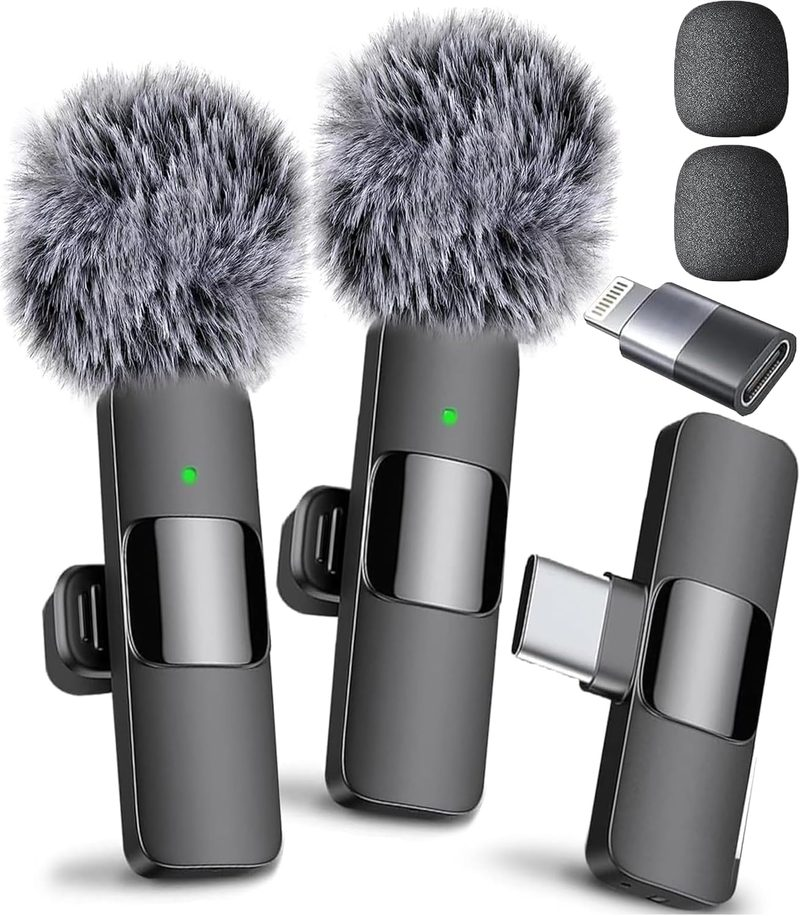
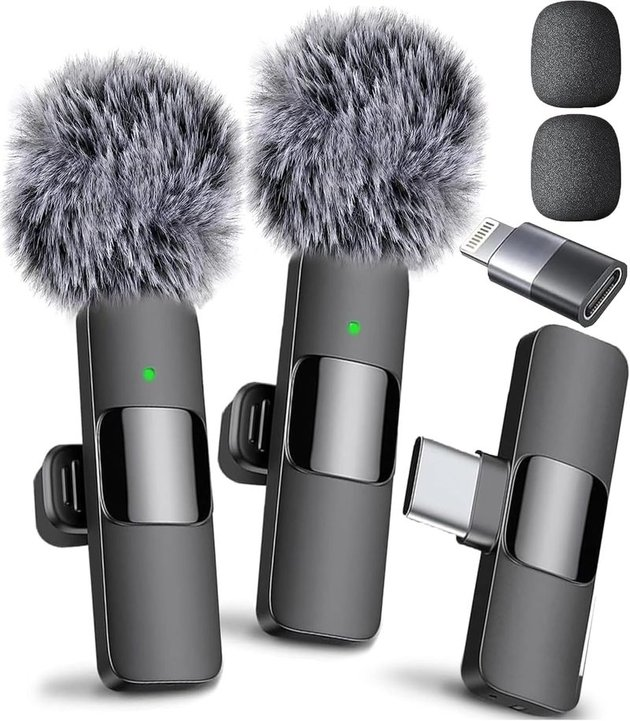
Right-size the 13 product photos that only ever render in a capped slot
Measured every image's real rendered CSS width across all pages and 7
breakpoints (375-1920px) rather than assume the earlier, narrower
single-page audit still held. It didn't: most files are reused somewhere
at or near their full 800px native width (a hero, a featured card, an
in-article deep-dive image), so a strict 2x-retina target left almost
nothing to shrink. Two things the measurement surfaced along the way:

- Several article heroes already carry an inline style="max-width:420px"
  from earlier work in this repo (the "SanDisk Extreme... dominating the
  mobile viewport" fix), which a page-by-page spot check would miss but a
  full sweep catches.
- rode-phone-cage-review.html's hero actually renders WIDER than its
  800px native file (910px) in the 1024-1119px viewport band, the gap
  before the sticky TOC appears at the documented >=1120px breakpoint.
  That's a case of too little resolution, not too much, and isn't
  fixable by resizing -- left alone, noted for anyone with a higher-res
  source photo.

At a 2x target, one file had ~4% headroom -- not worth doing. At 1.5x, a
common trade for photographic JPEG/WebP content where a phone's 3x panel
already isn't served full-resolution photos anywhere on the web, 13 files
whose only usage anywhere is inside that 420px-capped slot had real
headroom: resized 800px -> 630px (one, potensic-atom.jpg, only ever
reaches 383px CSS width -> 575px). Every OG/Twitter-referenced image and
[…]

Changed region(s): [[0.9349, 0.3967, 0.9651, 0.4272]]

diff --git a/best-wireless-lavalier-mics-under-100.html b/best-wireless-lavalier-mics-under-100.html
@@ -290,7 +290,7 @@
             <p class="lead text-lg text-slate-600 mb-4"><strong>Buy the BOYA Mini 2.</strong> At roughly $40&ndash;50 it does the only thing that actually matters here — clean, noise-cancelled 24-bit dialogue — for about a third of what the Rode Wireless Micro costs. If you're a solo creator talking to your own phone, spending more than this buys you features you will not use. <strong>Buy the Hollyland Lark M2 instead if</strong> you record two people at once: 40 hours of battery and 300m of range is the version of this purchase that survives real interview work.</p>
             <p class="text-xs text-slate-400 mb-8"><strong>How we pick:</strong> published manufacturer specifications and aggregated user reviews &mdash; not hands-on testing.</p>
 
-            <picture><source type="image/webp" srcset="images/boya-mini-2.webp"><img loading="lazy" src="images/boya-mini-2.jpg" width="800" height="443" alt="Wireless lavalier microphone for smartphone content creation" class="tpi-plate w-full h-auto rounded-xl mb-8 shadow-md object-cover" style="max-width:420px;"></picture>
+            <picture><source type="image/webp" srcset="images/boya-mini-2.webp"><img loading="lazy" src="images/boya-mini-2.jpg" width="630" height="705" alt="Wireless lavalier microphone for smartphone content creation" class="tpi-plate w-full h-auto rounded-xl mb-8 shadow-md object-cover" style="max-width:420px;"></picture>
 
             <section class="tpi-verdict not-prose" aria-labelledby="verdict-heading">
                 <span class="tpi-badge tpi-badge--pick">Best overall &mdash; budget wireless lav under $100</span>
@@ -377,7 +377,7 @@
 
             <h2>1. BOYA Mini 2 — Best Value</h2>
             <p class="dab text-slate-800 bg-slate-50 border-l-4 border-accent px-4 py-3 rounded-r-lg my-4"><strong>Quick take:</strong> <strong>Our pick, and the right buy for most solo creators.</strong> 24-bit/48kHz with AI noise cancellation is genuinely all the audio quality a phone video needs, and at 5g the transmitter is light enough that it doesn't drag a t-shirt collar out of shape on camera. <strong>Skip it if</strong> you work beyond ~100m from your phone, or you need to mic two people.</p>
-            <picture><source type="image/webp" srcset="images/boya-mini-2.webp"><img loading="lazy" src="images/boya-mini-2.jpg" width="800" height="895" alt="BOYA Mini 2 wireless lavalier microphone with charging case" class="tpi-plate w-full h-auto rounded-xl my-6 shadow-sm border border-slate-200" style="max-width:420px;"></picture>
+            <picture><source type="image/webp" srcset="images/boya-mini-2.webp"><img loading="lazy" src="images/boya-mini-2.jpg" width="630" height="705" alt="BOYA Mini 2 wireless lavalier microphone with charging case" class="tpi-plate w-full h-auto rounded-xl my-6 shadow-sm border border-slate-200" style="max-width:420px;"></picture>
             <p>The BOYA Mini 2 is the biggest surprise in the budget wireless mic space. At roughly a third of the price of the Rode Wireless Micro, it delivers AI noise cancellation, 24-bit/48kHz audio, and a total battery life of around 30 hours via its charging case. The 5g transmitter weight is the lightest on this list — light enough that it won't pull down thin shirt collars, which is a real-world advantage reviewers frequently cite. The trade-off is range (100m vs 200-400m for pricier options), but for single-person vlogging where you're always near your phone, that's rarely a limitation.</p>
             <div class="grid md:grid-cols-2 gap-6 my-8">
                 <div class="bg-pro-bg border border-pro-border p-5 rounded-xl">
@@ -400,7 +400,7 @@
 
             <h2>2. Hollyland Lark M2 — Best for Dual-Person Interviews</h2>
             <p class="dab text-slate-800 bg-slate-50 border-l-4 border-accent px-4 py-3 rounded-r-lg my-4"><strong>Quick take:</strong> <strong>Buy this the moment you're recording two people.</strong> Two transmitters plus receivers for USB-C, Lightning and 3.5mm mean you can mic an interview and plug into whatever camera turns up, and 300m of range covers a subject who wanders off-mark. 40 hours of battery takes charging off your pre-shoot checklist entirely. <strong>Buy the BOYA instead if</strong> you only ever mic yourself &mdash; this is more system than you'd use.</p>
-            <picture><source type="image/webp" srcset="images/hollyland-lark-m2.webp"><img loading="lazy" src="images/hollyland-lark-m2.jpg" width="800" height="670" alt="Hollyland Lark M2 wireless lavalier microphone system" class="tpi-plate w-full h-auto rounded-xl my-6 shadow-sm border border-slate-200" style="max-width:420px;"></picture>
+            <picture><source type="image/webp" srcset="images/hollyland-lark-m2.webp"><img loading="lazy" src="images/hollyland-lark-m2.jpg" width="630" height="528" alt="Hollyland Lark M2 wireless lavalier microphone system" class="tpi-plate w-full h-auto rounded-xl my-6 shadow-sm border border-slate-200" style="max-width:420px;"></picture>
             <p>The Lark M2 ships with two transmitters and a triple-receiver setup (USB-C, Lightning, and 3.5mm), making it the most versatile option here for creators who switch between phone and camera. At 9g per transmitter and 40 hours of total battery via the charging case, it handles long interview days without recharging. The 300m range and 48kHz/24-bit audio put it in near-professional territory, and the one-click noise cancellation works well in moderately noisy environments according to user reviews.</p>
             <div class="grid md:grid-cols-2 gap-6 my-8">
                 <div class="bg-pro-bg border border-pro-border p-5 rounded-xl">
@@ -423,7 +423,7 @@
 
             <h2>3. Mini Mic Pro — Best Range for the Price</h2>
             <p class="dab text-slate-800 bg-slate-50 border-l-4 border-accent px-4 py-3 rounded-r-lg my-4"><strong>Quick take:</strong> <strong>Buy this only if distance is genuinely your problem.</strong> 260m is the longest range here, so for miking a subject across a field it's the pick. Everything else is a compromise: the ~6h transmitter battery is the shortest in this roundup, so you'll be planning charges around it. <strong>Skip it for</strong> ordinary talking-head work &mdash; you'd be paying for range you never leave.</p>
-            <picture><source type="image/webp" srcset="images/mini-mic-pro.webp"><img loading="lazy" src="images/mini-mic-pro.jpg" width="800" height="916" alt="Mini Mic Pro wireless lavalier microphone with Lightning and USB-C receiver" class="tpi-plate w-full h-auto rounded-xl my-6 shadow-sm border border-slate-200" style="max-width:420px;"></picture>
+            <picture><source type="image/webp" srcset="images/mini-mic-pro.webp"><img loading="lazy" src="images/mini-mic-pro.jpg" width="630" height="721" alt="Mini Mic Pro wireless lavalier microphone with Lightning and USB-C receiver" class="tpi-plate w-full h-auto rounded-xl my-6 shadow-sm border border-slate-200" style="max-width:420px;"></picture>
             <p>The Mini Mic Pro stands out for a wireless range (up to 260m) that would normally command a much higher price, using 2.4GHz digital transmission with a near-zero latency codec. It ships with a combined Lightning/USB-C receiver plus swappable windproof covers and sponge heads, so one unit covers both iPhone and Android without buying a separate kit. Battery life sits around 6 hours per charge — shorter than the Hollyland options — but the 2-hour recharge time is fast, and the receiver can power-pass to your phone while recording.</p>
             <div class="grid md:grid-cols-2 gap-6 my-8">
                 <div class="bg-pro-bg border border-pro-border p-5 rounded-xl">
@@ -446,7 +446,7 @@
 
             <h2>4. MENERESAS 3-in-1 — Best for Multi-Device Switching</h2>
             <p class="dab text-slate-800 bg-slate-50 border-l-4 border-accent px-4 py-3 rounded-r-lg my-4"><strong>Quick take:</strong> <strong>Buy this if you switch devices constantly.</strong> One universal receiver covers iPhone, Android and camera with no adapter swapping &mdash; the fiddly part of every other system here. <strong>Skip it if</strong> you shoot outdoors or at any real distance: 80ft (~24m) is by far the shortest range in this roundup, and it's the spec that will bite you first.</p>
-            <picture><source type="image/webp" srcset="images/meneresas-3-in-1.webp"><img loading="lazy" src="images/meneresas-3-in-1.jpg" width="800" height="809" alt="MENERESAS 3-in-1 wireless lavalier microphone with universal receiver" class="tpi-plate w-full h-auto rounded-xl my-6 shadow-sm border border-slate-200" style="max-width:420px;"></picture>
+            <picture><source type="image/webp" srcset="images/meneresas-3-in-1.webp"><img loading="lazy" src="images/meneresas-3-in-1.jpg" width="630" height="637" alt="MENERESAS 3-in-1 wireless lavalier microphone with universal receiver" class="tpi-plate w-full h-auto rounded-xl my-6 shadow-sm border border-slate-200" style="max-width:420px;"></picture>
             <p>The MENERESAS 3-in-1 is built around a single universal receiver that works across iPhone, Android, and camera without swapping adapters — useful if you regularly move between devices mid-project. It's rated for an 80ft (about 24m) range and a 15-hour receiver battery with a 5-hour transmitter runtime, positioning it as a shorter-range but longer-lasting-on-standby option than the Mini Mic Pro. Dual transmitters support two-person recording out of the box.</p>
             <div class="grid md:grid-cols-2 gap-6 my-8">
                 <div class="bg-pro-bg border border-pro-border p-5 rounded-xl">
@@ -469,7 +469,7 @@
 
             <h2>5. Hollyland Lark A1 — Best Battery Life</h2>
             <p class="dab text-slate-800 bg-slate-50 border-l-4 border-accent px-4 py-3 rounded-r-lg my-4"><strong>Quick take:</strong> <strong>Buy this if your audio environment is unpredictable.</strong> A 120dB SPL rating means a sudden shout, a round of applause, or a passing truck won't distort the take the way it would on cheaper mics, and three-level noise cancellation handles the steadier noise underneath. <strong>Skip it if</strong> you shoot in controlled quiet &mdash; that's headroom a calm room never asks for.</p>
-            <picture><source type="image/webp" srcset="images/hollyland-lark-a1.webp"><img loading="lazy" src="images/hollyland-lark-a1.jpg" width="800" height="790" alt="Hollyland Lark A1 wireless lavalier microphone combo with charging case" class="tpi-plate w-full h-auto rounded-xl my-6 shadow-sm border border-slate-200" style="max-width:420px;"></picture>
+            <picture><source type="image/webp" srcset="images/hollyland-lark-a1.webp"><img loading="lazy" src="images/hollyland-lark-a1.jpg" width="630" height="622" alt="Hollyland Lark A1 wireless lavalier microphone combo with charging case" class="tpi-plate w-full h-auto rounded-xl my-6 shadow-sm border border-slate-200" style="max-width:420px;"></picture>
             <p>The Lark A1 pairs a 200m range with 48kHz/24-bit studio-grade audio and 3-level intelligent noise cancellation, plus EQ and reverb presets adjustable through Hollyland's app. It handles sudden loud noise well thanks to a 120dB SPL rating, avoiding the distortion cheaper mics can suffer at high volume. The magnetic mounting adds a quick-attach option alongside the standard clip. Reviewers note it's especially good for events and conference recording where consistent range and noise handling matter more than raw battery runtime.</p>
             <div class="grid md:grid-cols-2 gap-6 my-8">
                 <div class="bg-pro-bg border border-pro-border p-5 rounded-xl">

diff --git a/phone-lenses-nd-filters-mobile-video.html b/phone-lenses-nd-filters-mobile-video.html
@@ -394,7 +394,7 @@
 
             <h2>2. SmallRig 67mm Magnetic VND ND64-ND400 — Best for Bright Daylight</h2>
             <p class="dab text-slate-800 bg-slate-50 border-l-4 border-accent px-4 py-3 rounded-r-lg my-4"><strong>Quick take:</strong> <strong>Buy this only if the ND2&ndash;ND32 isn't dark enough.</strong> Roughly four stops darker, which you need in direct midday sun, on snow, or on bright water &mdash; and essentially nowhere else. <strong>Do not make this your first ND:</strong> on an ordinary overcast afternoon it's too dark to shoot through, and you'll end up buying the ND2&ndash;ND32 as well.</p>
-            <picture><source type="image/webp" srcset="images/smallrig-vnd-nd64-400.webp"><img loading="lazy" src="images/smallrig-vnd-nd64-400.jpg" width="800" height="868" alt="SmallRig 67mm Magnetic Variable ND Filter ND64-ND400 for bright daylight" class="tpi-plate w-full h-auto rounded-xl my-6 shadow-sm border border-slate-200" style="max-width:420px;"></picture>
+            <picture><source type="image/webp" srcset="images/smallrig-vnd-nd64-400.webp"><img loading="lazy" src="images/smallrig-vnd-nd64-400.jpg" width="630" height="684" alt="SmallRig 67mm Magnetic Variable ND Filter ND64-ND400 for bright daylight" class="tpi-plate w-full h-auto rounded-xl my-6 shadow-sm border border-slate-200" style="max-width:420px;"></picture>
             <p>When the ND2-32 filter isn't dense enough — direct midday sun, wide apertures, or bright snow and water scenes — this 6-9 stop version steps in. It shares the same magnetic-plus-threaded mounting and multi-layered optical glass as the lighter filter, just shifted to a much darker range. This is a second filter to add once you outgrow the standard one, not a starting point for most creators.</p>
             <div class="grid md:grid-cols-2 gap-6 my-8">
                 <div class="bg-pro-bg border border-pro-border p-5 rounded-xl">
@@ -417,7 +417,7 @@
 
             <h2>3. NEEWER Variable ND Filter & Magnetic Clip Set — Best Budget Entry</h2>
             <p class="dab text-slate-800 bg-slate-50 border-l-4 border-accent px-4 py-3 rounded-r-lg my-4"><strong>Quick take:</strong> <strong>Buy this if you don't own a SmallRig cage.</strong> The bundled magnetic clip mounts to a bare phone, so you get the same practical ND2&ndash;ND32 stop range without buying into a cage ecosystem first &mdash; and at a lower price. <strong>Buy the SmallRig instead if</strong> you already have the cage; its integrated magnetic mount is quicker and cleaner in use.</p>
-            <picture><source type="image/webp" srcset="images/neewer-variable-nd.webp"><img loading="lazy" src="images/neewer-variable-nd.jpg" width="800" height="825" alt="NEEWER Variable ND Filter and Magnetic Phone Clip Set" class="tpi-plate w-full h-auto rounded-xl my-6 shadow-sm border border-slate-200" style="max-width:420px;"></picture>
+            <picture><source type="image/webp" srcset="images/neewer-variable-nd.webp"><img loading="lazy" src="images/neewer-variable-nd.jpg" width="630" height="650" alt="NEEWER Variable ND Filter and Magnetic Phone Clip Set" class="tpi-plate w-full h-auto rounded-xl my-6 shadow-sm border border-slate-200" style="max-width:420px;"></picture>
             <p>Neewer's take skips the cage-dependent magnetic system in favor of a standalone magnetic phone clip, so it works without needing to already own a compatible cage. The ND2-32 range covers the same practical stops as the SmallRig equivalent, making this the more accessible starting point if you don't already have SmallRig rig components.</p>
             <div class="grid md:grid-cols-2 gap-6 my-8">
                 <div class="bg-pro-bg border border-pro-border p-5 rounded-xl">
@@ -440,7 +440,7 @@
 
             <h2>4. SmallRig 1.33x Anamorphic Lens — Best Entry-Level Cinematic Lens</h2>
             <p class="dab text-slate-800 bg-slate-50 border-l-4 border-accent px-4 py-3 rounded-r-lg my-4"><strong>Quick take:</strong> <strong>Buy this only after an ND is already in your bag.</strong> It produces a real 2.4:1 frame and genuine horizontal blue flares, which no software filter fakes convincingly &mdash; but it also demands a compatible T-mount cage and a de-squeeze app, and there's a real learning curve before footage reads as intentional rather than warped. <strong>Start here rather than the 1.55x</strong> if anamorphic is new to you.</p>
-            <picture><source type="image/webp" srcset="images/smallrig-anamorphic-133x.webp"><img loading="lazy" src="images/smallrig-anamorphic-133x.jpg" width="800" height="656" alt="SmallRig 1.33x Anamorphic Lens for mobile phone" class="tpi-plate w-full h-auto rounded-xl my-6 shadow-sm border border-slate-200" style="max-width:420px;"></picture>
+            <picture><source type="image/webp" srcset="images/smallrig-anamorphic-133x.webp"><img loading="lazy" src="images/smallrig-anamorphic-133x.jpg" width="630" height="517" alt="SmallRig 1.33x Anamorphic Lens for mobile phone" class="tpi-plate w-full h-auto rounded-xl my-6 shadow-sm border border-slate-200" style="max-width:420px;"></picture>
             <p>This lens physically compresses the image horizontally during capture, producing a genuine 2.4:1 widescreen frame with 33% more horizontal field of view than standard 16:9 — the same visual language as theatrical film. It also produces the horizontal blue lens flare associated with anamorphic glass. Setup requires a compatible T-mount phone cage and a dedicated shooting app (Blackmagic Cam and FiLMiC Pro are commonly recommended), since standard camera apps won't de-squeeze the footage correctly.</p>
             <div class="grid md:grid-cols-2 gap-6 my-8">
                 <div class="bg-pro-bg border border-pro-border p-5 rounded-xl">
@@ -463,7 +463,7 @@
 
             <h2>5. SmallRig 1.55x Anamorphic Lens — Best Stronger Widescreen Effect</h2>
             <p class="dab text-slate-800 bg-slate-50 border-l-4 border-accent px-4 py-3 rounded-r-lg my-4"><strong>Quick take:</strong> <strong>Buy this only if you already know you want anamorphic.</strong> 2.76:1 and 55% extra horizontal width is a stronger, far more obviously stylized look than the 1.33x &mdash; excellent when it's a deliberate choice, overwhelming when it isn't. <strong>Buy the 1.33x instead if</strong> this would be your first anamorphic lens.</p>
-            <picture><source type="image/webp" srcset="images/smallrig-anamorphic-155x.webp"><img loading="lazy" src="images/smallrig-anamorphic-155x.jpg" width="800" height="689" alt="SmallRig 1.55x Anamorphic Lens for mobile phone" class="tpi-plate w-full h-auto rounded-xl my-6 shadow-sm border border-slate-200" style="max-width:420px;"></picture>
+            <picture><source type="image/webp" srcset="images/smallrig-anamorphic-155x.webp"><img loading="lazy" src="images/smallrig-anamorphic-155x.jpg" width="630" height="543" alt="SmallRig 1.55x Anamorphic Lens for mobile phone" class="tpi-plate w-full h-auto rounded-xl my-6 shadow-sm border border-slate-200" style="max-width:420px;"></picture>
             <p>Stepping up to the 1.55x squeeze produces a wider 2.76:1 aspect ratio — 55% more horizontal frame width than standard 16:9, versus 33% on the 1.33x lens. The trade-off is a more pronounced and less subtle widescreen look, which some creators want for a distinctly "epic" feel and others find too aggressive for everyday content. Mounting and app requirements are the same as the 1.33x model.</p>
             <div class="grid md:grid-cols-2 gap-6 my-8">
                 <div class="bg-pro-bg border border-pro-border p-5 rounded-xl">

diff --git a/best-portable-ssds-prores.html b/best-portable-ssds-prores.html
@@ -309,7 +309,7 @@
 
             <h3>2. Crucial X9 Pro — best for gimbal setups</h3>
             <p class="dab text-slate-800 bg-slate-50 border-l-4 border-accent px-4 py-3 rounded-r-lg my-4"><strong>Quick take:</strong> <strong>Buy this one if it's going on a gimbal.</strong> At ~38g and 2.5 x 2.0 inches, it's the only drive here that clamps to a balance-sensitive rig without upsetting your gimbal's calibration, and write speed matches the larger drives. <strong>Skip it if</strong> you shoot in weather: IP55 is a real step down from IP65, and it runs warm on long writes.</p>
-            <picture><source type="image/webp" srcset="images/crucial-x9-pro.webp"><img loading="lazy" src="images/crucial-x9-pro.jpg" width="674" height="600" alt="Crucial X9 Pro portable SSD" class="tpi-plate w-full h-auto rounded-xl my-6 shadow-sm border border-slate-200" style="max-width:420px;"></picture>
+            <picture><source type="image/webp" srcset="images/crucial-x9-pro.webp"><img loading="lazy" src="images/crucial-x9-pro.jpg" width="630" height="561" alt="Crucial X9 Pro portable SSD" class="tpi-plate w-full h-auto rounded-xl my-6 shadow-sm border border-slate-200" style="max-width:420px;"></picture>
             <p>If you're mounting the drive on a gimbal or a lightweight rig where balance is delicate, the X9 Pro's compact size (~2.5 x 2.0 inches) and low weight (~38g) are its main advantage. It slips into standard cold-shoe SSD clamps easily.</p>
             <div class="grid md:grid-cols-2 gap-6 my-8">
                 <div class="bg-pro-bg border border-pro-border p-5 rounded-xl">
@@ -332,7 +332,7 @@
 
             <h3>3. SanDisk Extreme Portable — best brand trust</h3>
             <p class="dab text-slate-800 bg-slate-50 border-l-4 border-accent px-4 py-3 rounded-r-lg my-4"><strong>Quick take:</strong> <strong>Buy this if you'd rather own the known quantity.</strong> Speeds and the IP65 rating track the T7 Shield closely; what you're really paying for is years of long-term field reports instead of a newer drive's shorter record. <strong>Skip it if</strong> you shoot marathon takes &mdash; thermal throttling on sustained writes is the most consistent complaint against it, and that's the exact failure the T7 Shield engineered around.</p>
-            <picture><source type="image/webp" srcset="images/sandisk-extreme.webp"><img loading="lazy" src="images/sandisk-extreme.jpg" width="800" height="896" alt="SanDisk 2TB Extreme Portable SSD" class="tpi-plate w-full h-auto rounded-xl my-6 shadow-sm border border-slate-200" style="max-width:420px;"></picture>
+            <picture><source type="image/webp" srcset="images/sandisk-extreme.webp"><img loading="lazy" src="images/sandisk-extreme.jpg" width="630" height="706" alt="SanDisk 2TB Extreme Portable SSD" class="tpi-plate w-full h-auto rounded-xl my-6 shadow-sm border border-slate-200" style="max-width:420px;"></picture>
             <p>The SanDisk Extreme Portable is one of the longest-running names in rugged portable storage, and that track record is its main advantage. IP65 water and dust resistance matches the T7 Shield, and read/write speeds are competitive. It's the safe pick if you trust the SanDisk ecosystem and want a drive with extensive long-term user feedback available.</p>
             <div class="grid md:grid-cols-2 gap-6 my-8">
                 <div class="bg-pro-bg border border-pro-border p-5 rounded-xl">

diff --git a/index.html b/index.html
@@ -235,7 +235,7 @@
 
             <a href="phone-lenses-nd-filters-mobile-video.html" class="tpi-card">
                 <div class="tpi-card__media">
-                    <picture><source type="image/webp" srcset="images/smallrig-anamorphic-133x.webp"><img loading="lazy" decoding="async" src="images/smallrig-anamorphic-133x.jpg" width="800" height="656" alt="ND filters and anamorphic lenses for phone video" ></picture>
+                    <picture><source type="image/webp" srcset="images/smallrig-anamorphic-133x.webp"><img loading="lazy" decoding="async" src="images/smallrig-anamorphic-133x.jpg" width="630" height="517" alt="ND filters and anamorphic lenses for phone video" ></picture>
                 </div>
                 <div class="tpi-card__body">
                     <span class="tpi-badge">Buying guide</span>
@@ -288,7 +288,7 @@
         <div class="tpi-grid">
             <a href="dji-mini-4-pro-vs-potensic-atom.html" class="tpi-card">
                 <div class="tpi-card__media">
-                    <picture><source type="image/webp" srcset="images/potensic-atom.webp"><img loading="lazy" decoding="async" src="images/potensic-atom.jpg" width="800" height="667" alt="DJI Mini 4 Pro compared with Potensic Atom drone" ></picture>
+                    <picture><source type="image/webp" srcset="images/potensic-atom.webp"><img loading="lazy" decoding="async" src="images/potensic-atom.jpg" width="575" height="479" alt="DJI Mini 4 Pro compared with Potensic Atom drone" ></picture>
                 </div>
                 <div class="tpi-card__body">
                     <span class="tpi-badge">Comparison</span>

diff --git a/universal-android-video-cages.html b/universal-android-video-cages.html
@@ -215,7 +215,7 @@
             <p><a href="https://www.amazon.com/dp/B0GLMXWJY3?tag=techpicksio-20" class="tpi-btn tpi-btn--cta" target="_blank" rel="sponsored nofollow noopener">Check Live Zeadio Aluminum Cage Price on Amazon</a></p>
 
             <h2>3. Ulanzi U-Rig Pro — Best Value</h2>
-            <picture><source type="image/webp" srcset="images/ulanzi-u-rig-pro.webp"><img width="800" height="781" loading="lazy" src="images/ulanzi-u-rig-pro.jpg" alt="Ulanzi U-Rig Pro smartphone video rig with triple cold shoe mounts for mic, light and monitor" class="tpi-plate w-full h-auto rounded-xl my-6 shadow-sm border border-slate-200" style="max-width:420px;"></picture>
+            <picture><source type="image/webp" srcset="images/ulanzi-u-rig-pro.webp"><img width="630" height="615" loading="lazy" src="images/ulanzi-u-rig-pro.jpg" alt="Ulanzi U-Rig Pro smartphone video rig with triple cold shoe mounts for mic, light and monitor" class="tpi-plate w-full h-auto rounded-xl my-6 shadow-sm border border-slate-200" style="max-width:420px;"></picture>
             <p>The U-Rig Pro is a long-running favorite for its price-to-features ratio: three cold shoes and two 1/4"-20 threads for a low cost, fitting phones ~2-3.5" wide. The one caveat for Android users is the upper clamp limit — verify a very large phone like the S25 Ultra fits with your case before buying.</p>
             <div class="grid md:grid-cols-2 gap-6 my-8">
                 <div class="bg-pro-bg border border-pro-border p-5 rounded-xl">

diff --git a/dji-mini-4-pro-vs-potensic-atom.html b/dji-mini-4-pro-vs-potensic-atom.html
@@ -163,7 +163,7 @@
 
             <div class="grid grid-cols-2 gap-4 mb-8">
                 <picture><source type="image/webp" srcset="images/dji-mini-4-pro.webp"><img loading="lazy" src="images/dji-mini-4-pro.jpg" width="800" height="693" alt="DJI Mini 4 Pro sub-250g drone" class="tpi-plate w-full h-auto rounded-xl shadow-md object-cover"></picture>
-                <picture><source type="image/webp" srcset="images/potensic-atom.webp"><img src="images/potensic-atom.jpg" width="800" height="667" alt="Potensic Atom sub-250g budget drone" class="tpi-plate w-full h-auto rounded-xl shadow-md object-cover"></picture>
+                <picture><source type="image/webp" srcset="images/potensic-atom.webp"><img src="images/potensic-atom.jpg" width="575" height="479" alt="Potensic Atom sub-250g budget drone" class="tpi-plate w-full h-auto rounded-xl shadow-md object-cover"></picture>
             </div>
 
             <section class="tpi-verdict not-prose" aria-labelledby="verdict-heading">
